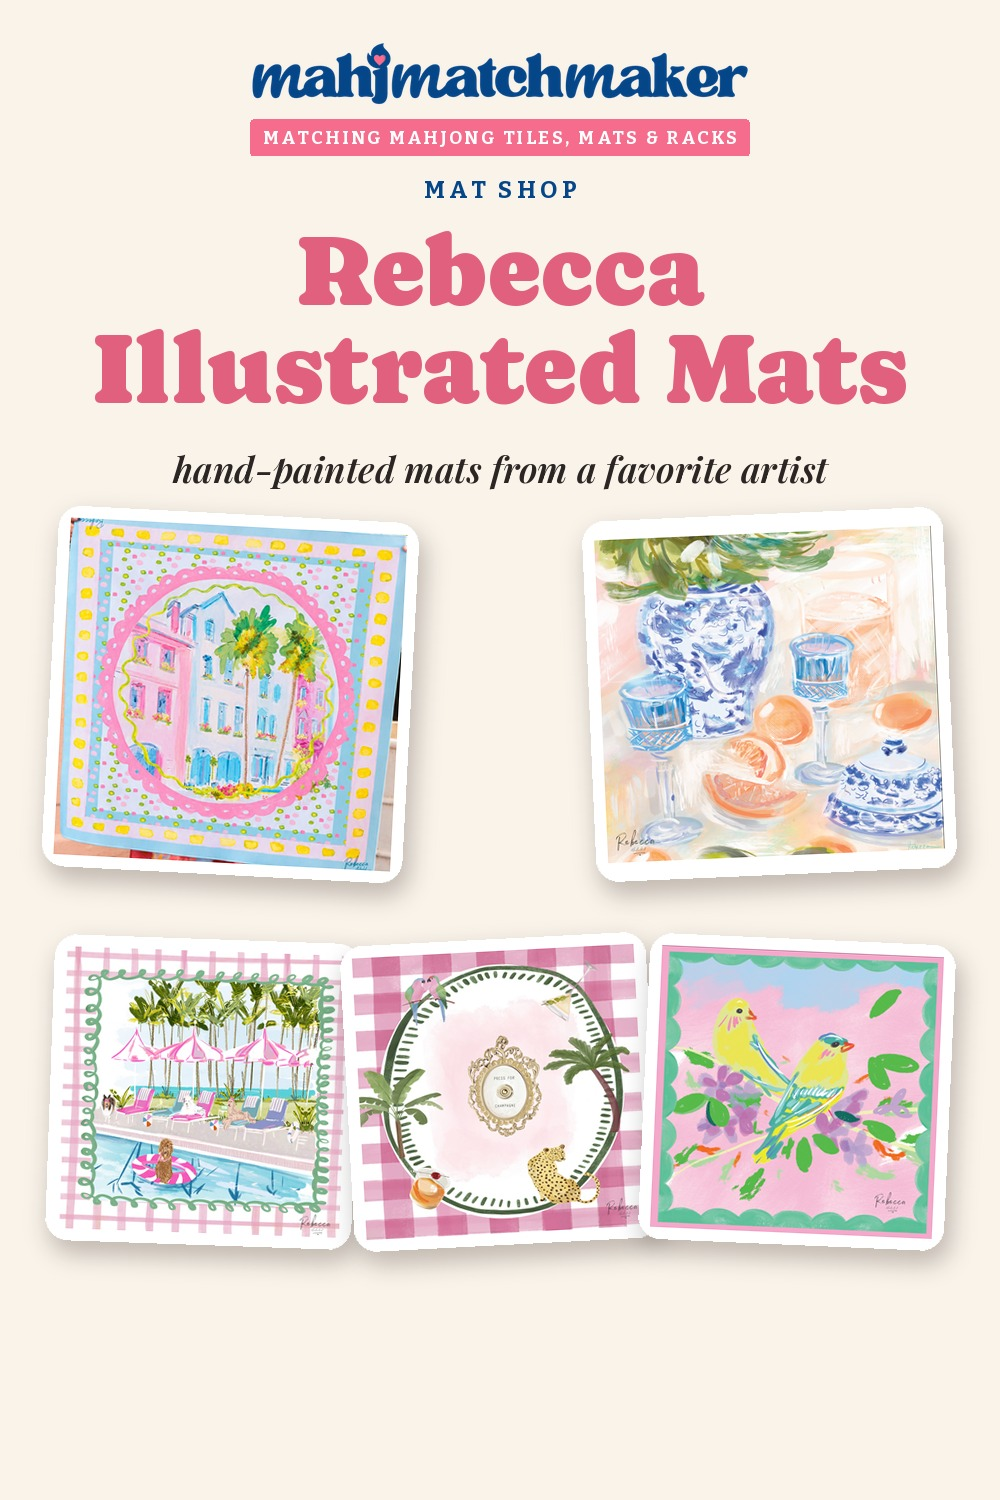
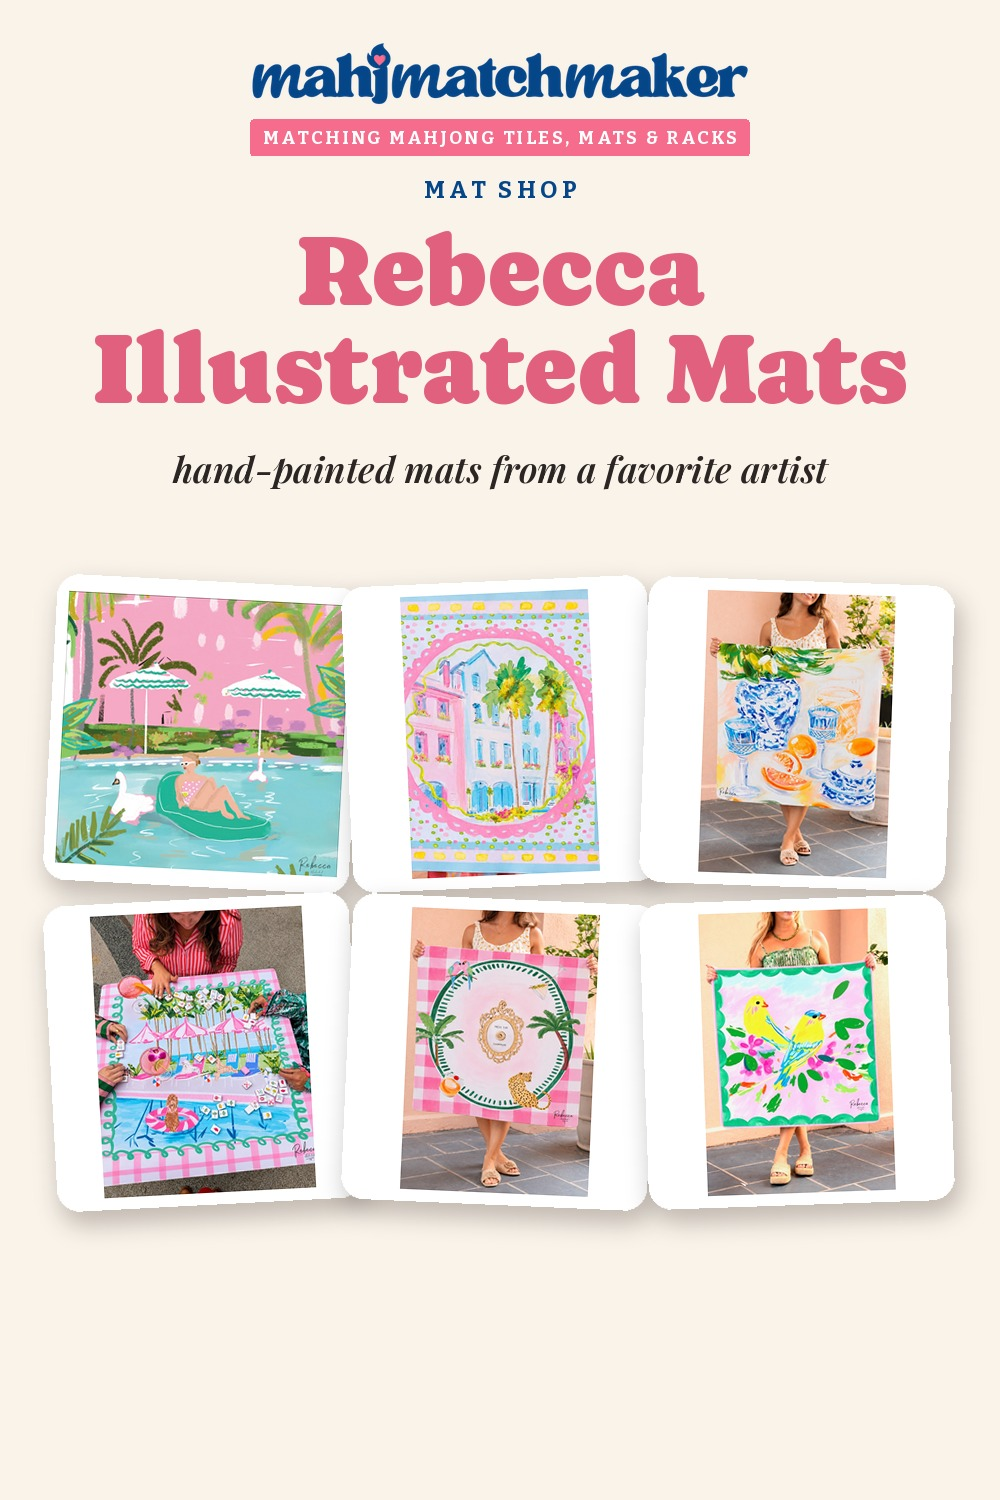
ShopMy portrait covers: all 24 shelves, uniform six
Claude-Session: https://claude.ai/code/session_01PiwamzEftkvrKP5d7A1QEB

diff --git a/scripts/shopmy/portrait_picks.py b/scripts/shopmy/portrait_picks.py
@@ -1,0 +1,28 @@
+# Six picks per ShopMy shelf for the portrait covers (Tiffany Oct 25: always a uniform six; never post a board with fewer than six items).
+# Keys = cover slug; values = last 5 digits of pin ids (resolved against the collection), in reading order (row 1 left->right, then row 2).
+PICKS = {
+ 'dice-dishes': '03680 96661 95144 07171 03770 06151',
+ 'mahjong-lamps': '93399 28999 32922 33061 29373 22594',
+ 'etsy-mahjong-mats': '22627 31839 31764 31413 31171 30877',
+ 'racks': '17240 17176 17490 17618 17304 16951',
+ 'mahjong-tablecloths': '30740 31302 30869 30691 12892 56999',
+ 'amazon-mahjong-mats': '10831 10535 12924 13709 13996 16016',
+ 'mahj-and-vine': '59018 95087 95067 94985 94999 95012',
+ 'tala-mahj': '67421 04138 67638 67720 04006 04688',
+ 'charleston-mahjong-club': '59013 59041 58614 58998 58991 58990',
+ 'omm-love-shack-fancy': '27058 26860 27272 27121 26994 27560',
+ 'the-mahjong-house': '27861 27725 27601 30241 29673 28852',
+ 'mahjong-storage': '14131 29865 30044 04470 04465 04455',
+ 'merry-mahjong': '16077 26001 32169 32833 16391 20906',
+ 'mahjong-gifts': '16286 13699 17133 02354 20713 20708',
+ 'bam-lets-mahjong': '94546 94603 94625 59321 94505 94516',   # mats on top, matching tile sets below (59321/94505/94516 = BAM's own site photos)
+ 'betty-june-jeannette': '26037 26853 26603 25859 15115 14757',
+ 'halloween-mahjong-table': '37389 38653 37516 37993 39262 37822',
+ 'a-reindeer-holiday-table': '32460 34339 34075 34203 33625 33810',
+ 'a-classic-plaid-holiday-table': '37150 36976 36021 36809 35867 35729',
+ 'a-retro-holiday-table': '34587 34736 35121 35268 35452 34956',
+ 'mahjong-tables-chairs': '70814 53270 70454 39965 40561 40870',
+ 'rebecca-illustrated-mats': '20690 20630 20673 20624 20594 20667',   # held pink-building mat in the middle, poolside art added left (Tiffany Oct 25 9:35pm)
+ 'etsy-amazon-holiday-mats': '43512 58178 57928 43386 59259 58867',
+ 'mahjong-trinkets': '51524 67088 67045 51391 52135 67137',
+}

diff --git a/scripts/shopmy/make_covers.py b/scripts/shopmy/make_covers.py
@@ -101,7 +101,7 @@ COVERS = [
   [96216077, 96226001, 96232169, 96232833, 96216391]),
  (8399777, 'mahjong-gifts', 'Mahjong Gifts', 'for every mahj friend on your list', 'gift guide', '#b3202a', 5,
   [96216286, 96213699, 96217133, 96213080, 96213309]),
- (8398045, 'bam-lets-mahjong', "BAM! Let's Mahjong", 'holly jolly tiles, mat and shufflers', 'holiday shop', '#b3202a', 3,
+ (8398045, 'bam-lets-mahjong', "BAM! Let's Mahjong", 'mats and the tile sets that match', 'brand shop', '#b3202a', 3,
   [96194546, 95959321, 96194521]),
  (8391624, 'betty-june-jeannette', 'Betty June Jeannette', 'dreamy watercolor mahjong mats', 'mat shop', '#e0607e', 5,
   [96114928, 96126037, 96126853, 96126603, 96125859]),

diff --git a/scripts/shopmy/make_covers_portrait.py b/scripts/shopmy/make_covers_portrait.py
@@ -43,7 +43,8 @@ def makeP(cid, slug, title, tag, kicker, accent, layout, picks):
     else: grid = [n]
     nr = len(grid); maxc = max(grid)
     s = min(int(zh / nr * 1.04), int(900 / maxc * 1.02), 360)
-    rowh = (zh - s) / max(nr - 1, 1) if nr > 1 else 0
+    rowh = min((zh - s) / max(nr - 1, 1), s * 1.04) if nr > 1 else 0
+    top += max(0, (zh - (s + rowh * max(nr - 1, 0)))) / 2
     tilts = [-3, 2.5, -2, 3, -2.5, 2, -3, 2]; k = 0
     for ri, cnt in enumerate(grid):
         sz = s if cnt == maxc else int(s * 1.18)
